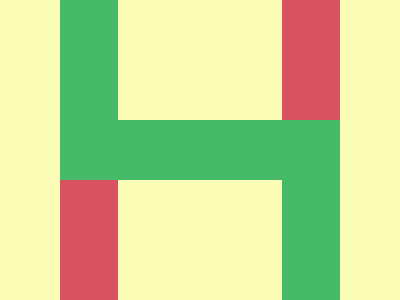
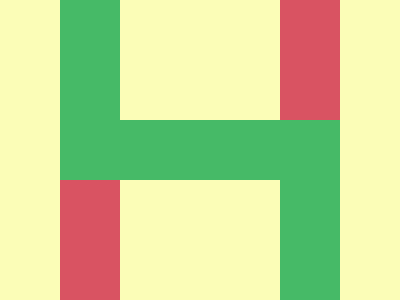
Update styles and images for yesterday's challenge

diff --git a/2025-02/2025-02-11/index.html b/2025-02/2025-02-11/index.html
@@ -5,60 +5,63 @@
     <meta name="viewport" content="width=device-width, initial-scale=1.0" />
     <title>2025/02/11</title>
     <style>
-        body {
-    min-height: 100dvh;
-    margin: 0;
-    background: #FBFDB7;
-    display: grid;
-    place-items: center;
-  }
-  main {
-    width: 280px;
-    height: 300px;
-    position: relative;
-    
-    &::before, &::after {
-      content: '';
-      position: absolute;
-      z-index: 1;
-      right: 58px;
-      height: 120px;
-      width: 164px;
-      background: #FBFDB7;
-    }
-    &::after {
-      bottom: 0;
-    }
-  }
-  div:first-of-type {
-    &::before, &::after {
-      content: '';
-      position: absolute;
-      box-sizing: border-box;
-      height: 150px;
-      width: 280px;
-      border: 60px solid;
-      border-color: #46BA67;
-    }
-    &::after {
-      bottom: 0;
-    }
-  }
-  div:last-of-type {
-    &::before, &::after {
-      content: '';
-      position: absolute;
-      height: 120px;
-      width: 60px;
-      background: #D95362;
-    }
-    &::before {
-      bottom: 0;
-    }
-    &::after {
-      right: 0;
-    }
-  }
+      body {
+        min-height: 100dvh;
+        margin: 0;
+        background: #fbfdb7;
+        display: grid;
+        place-items: center;
+      }
+      main {
+        width: 280px;
+        height: 300px;
+        position: relative;
+
+        &::before,
+        &::after {
+          content: "";
+          position: absolute;
+          z-index: 1;
+          right: 59px;
+          height: 120px;
+          width: 162px;
+          background: #fbfdb7;
+        }
+        &::after {
+          bottom: 0;
+        }
+      }
+      div:first-of-type {
+        &::before,
+        &::after {
+          content: "";
+          position: absolute;
+          box-sizing: border-box;
+          height: 155px;
+          width: 280px;
+          border: 60px solid;
+          border-color: #46ba67;
+        }
+        &::after {
+          bottom: 0;
+        }
+      }
+      div:last-of-type {
+        &::before,
+        &::after {
+          content: "";
+          position: absolute;
+          height: 120px;
+          width: 60px;
+          background: #d95362;
+        }
+        &::before {
+          bottom: 0;
+        }
+        &::after {
+          right: 0;
+        }
+      }
     </style>
   </head>
   <body>
